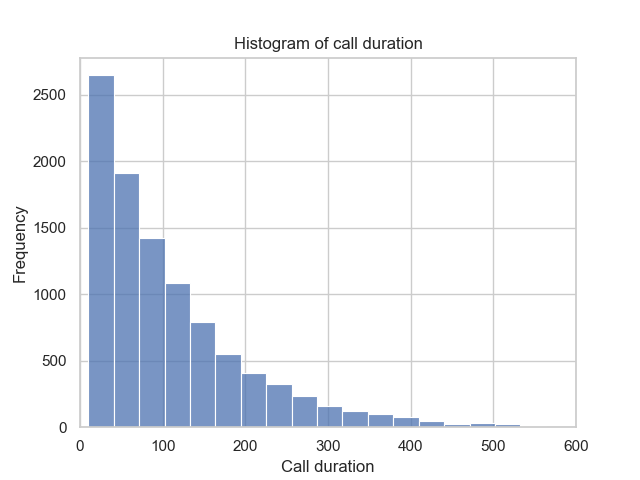
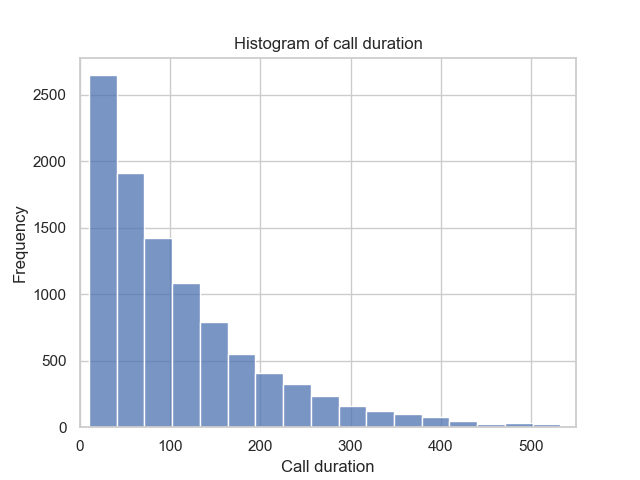
added pdf option to all histogram functions

diff --git a/input_analysis.py b/input_analysis.py
@@ -2,6 +2,7 @@ import numpy as np
 import pandas as pd
 import seaborn as sns
 import matplotlib.pyplot as plt
+from scipy.stats import norm
 
 
 def interarrival_time_histogram(df, bins=40, pdf=False):
@@ -65,29 +66,64 @@ def base_station_histogram(df, bins=20, pdf=False):
     plt.show()
 
 
-def call_duration_histogram(df, pde=True):
+def call_duration_histogram(df, bins=40, pdf=False):
     """Generates histogram for call duration"""
 
     sns.set(style='whitegrid')
-    sns.histplot(data=df, x='Call duration (sec)', bins=40)
+    plt.figure()
     plt.xlabel('Call duration')
     plt.ylabel('Frequency')
     plt.title('Histogram of call duration')
-    plt.xlim(0,600)
-    plt.savefig('figures/call_duration_histogram.png')
+    xlim = 550
+    plt.xlim(0, xlim)
+
+    if pdf is False:
+        # Plot histogram.
+        sns.histplot(data=df, x='Call duration (sec)', bins=bins)
+        plt.savefig('figures/call_duration_histogram.png')
+
+    else:
+        # Plot normalised histogram.
+        sns.histplot(data=df, x='Call duration (sec)', bins=bins, stat='density')
+        # Calculate maximum likelihood estimator for exponential distribution
+        x = np.linspace(0, xlim, 1000)
+        estimator = df['Call duration (sec)'].mean()
+        pdf = 1/estimator * np.exp(-x/estimator)
+        # Plot estimated pdf
+        plt.plot(x,pdf,'r--')
+        plt.savefig('figures/call_duration_pdf.png')
+    
     plt.show()
 
 
-def car_speed_histogram(df):
+def car_speed_histogram(df, bins=30, pdf=False):
     """Generates histogram for car speed"""
 
     sns.set(style='whitegrid')
-    sns.histplot(data=df, x='velocity (km/h)', bins=30)
+    plt.figure()
     plt.xlabel('Car speed')
     plt.ylabel('Frequency')
     plt.title('Histogram of car speed')
-    plt.xlim(90,152)
-    plt.savefig('figures/car_speed_histogram.png')
+    xlim_min = 90
+    xlim_max = 152
+    plt.xlim(xlim_min, xlim_max)
+
+    if pdf is False:
+        # Plot histogram
+        sns.histplot(data=df, x='velocity (km/h)', bins=bins)
+        plt.savefig('figures/car_speed_histogram.png')
+    
+    else:
+        sns.histplot(data=df, x='velocity (km/h)', bins=bins,stat='density')
+        # Calculate maximum likelihood estimators for normal distribution
+        x = np.linspace(xlim_min, xlim_max, 1000)
+        sample_mean = df['velocity (km/h)'].mean()
+        sample_stdev = df['velocity (km/h)'].std(ddof=1)
+        pdf = norm.pdf(x, loc=sample_mean, scale=sample_stdev)
+        # Plot estimated pdf
+        plt.plot(x,pdf,'r--')
+        plt.savefig('figures/car_speed_pdf.png')
+
     plt.show()
 
 
@@ -95,5 +131,5 @@ if __name__ == '__main__':
     df = pd.read_excel('simulation_data.xls')
     interarrival_time_histogram(df,pdf=True)
     base_station_histogram(df, pdf=True)
-    # call_duration_histogram(df)
-    # car_speed_histogram(df)
+    call_duration_histogram(df, pdf=True)
+    car_speed_histogram(df, pdf=True)
